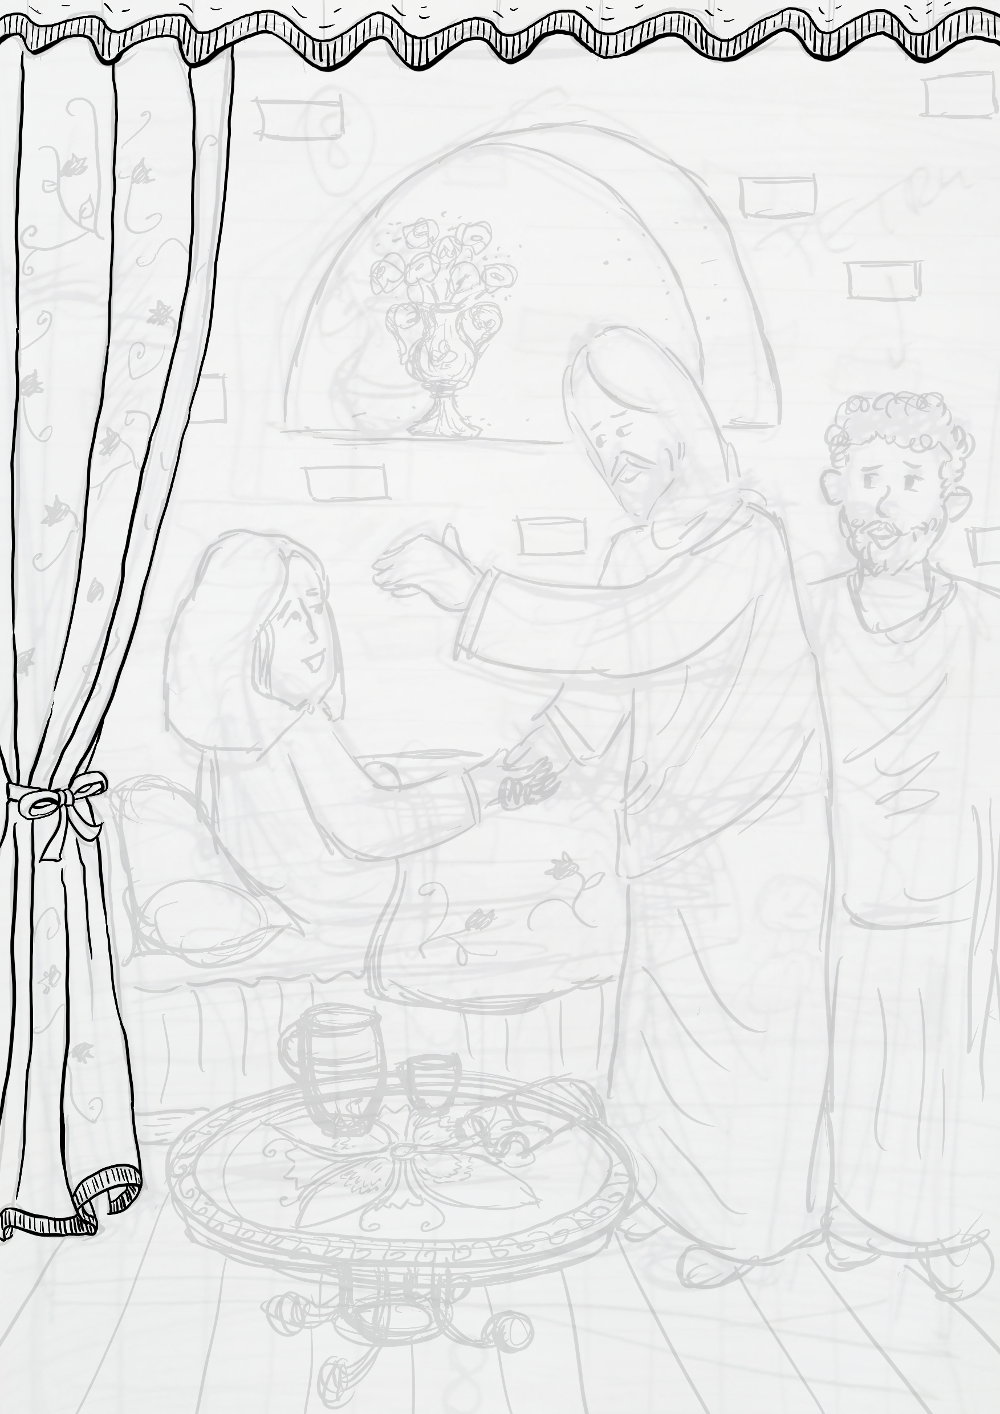
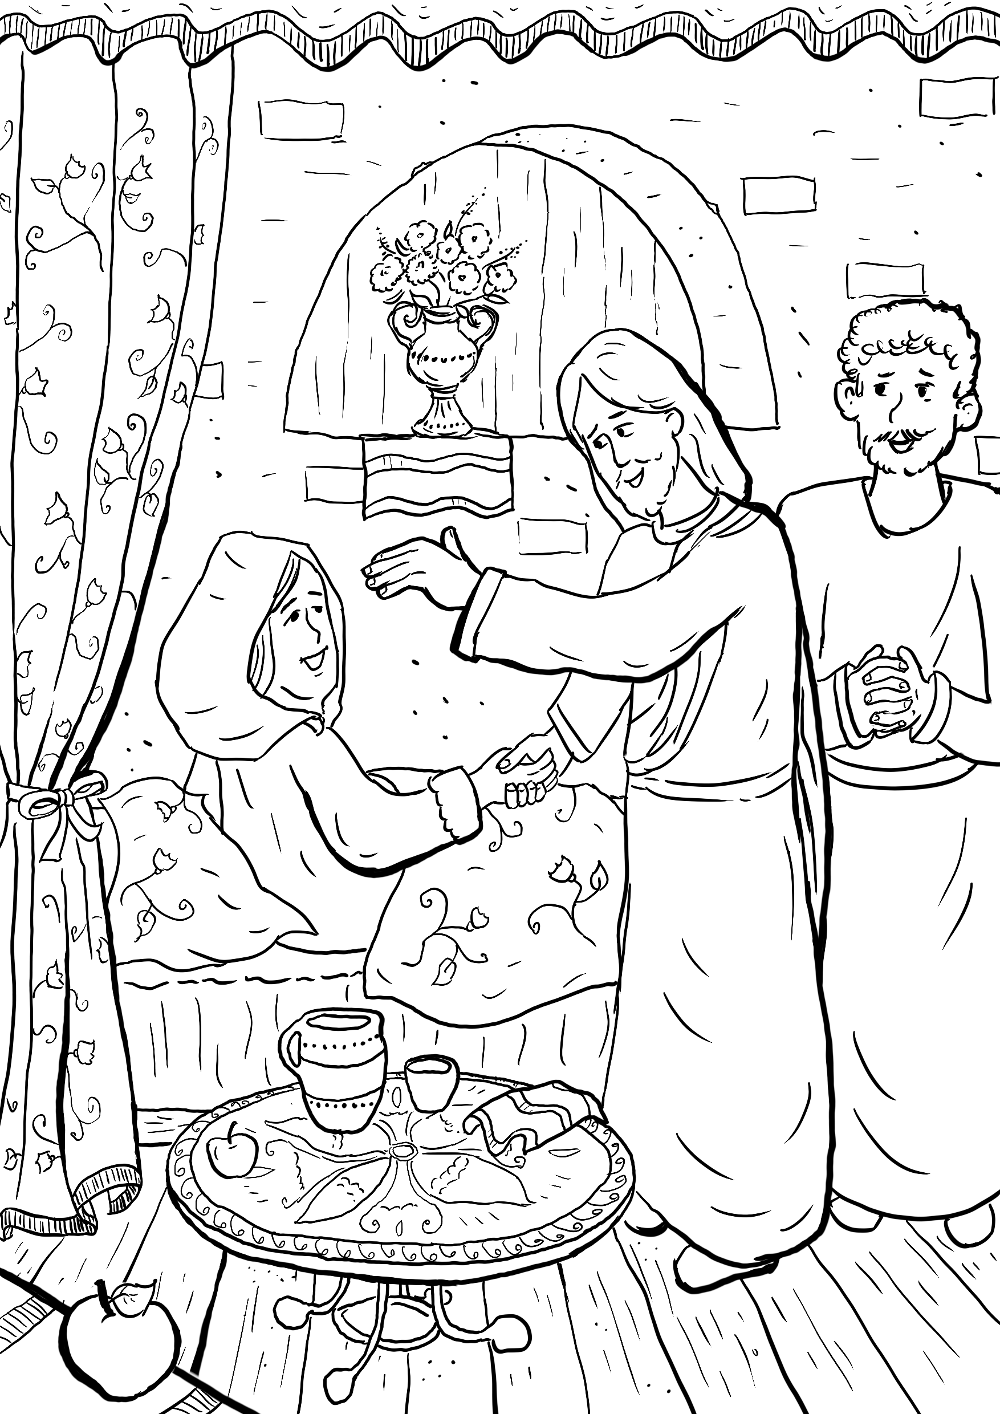
Update 08.

diff --git a/script.js b/script.js
@@ -228,7 +228,7 @@ angular.module('galleryApp', [])
       {
         id: 8,
         img: '08.png',
-        done: 65,
+        done: 100,
         title: {
           ro: "Vindecarea soacrei lui Petru",
           en: "Healing of Peter's mother-in-law"
